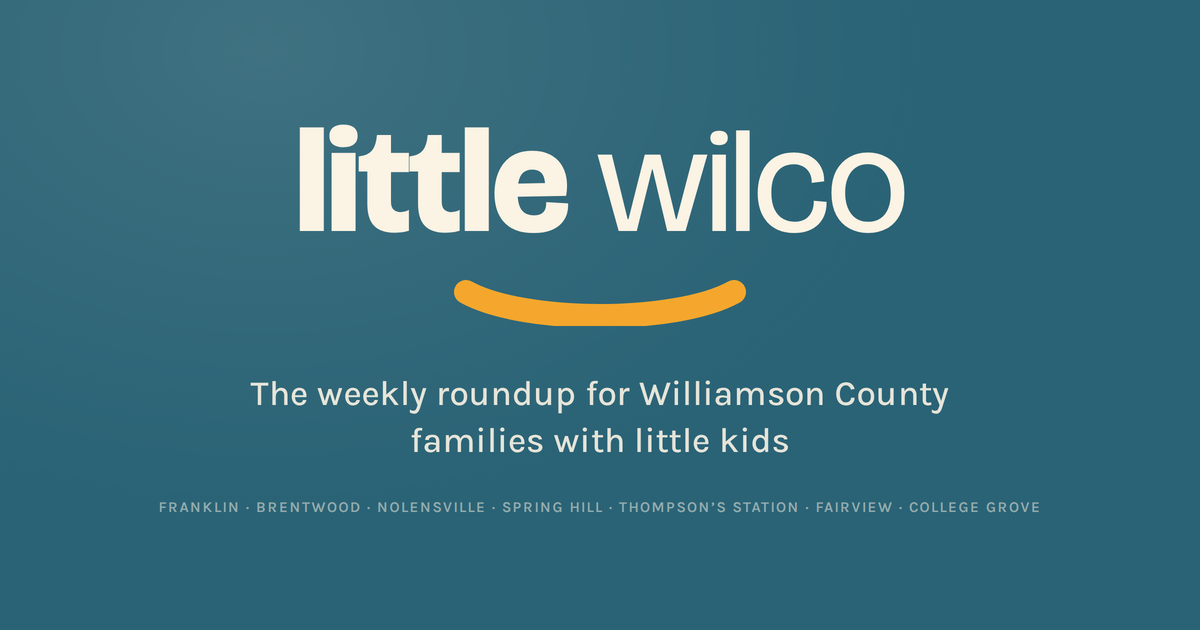
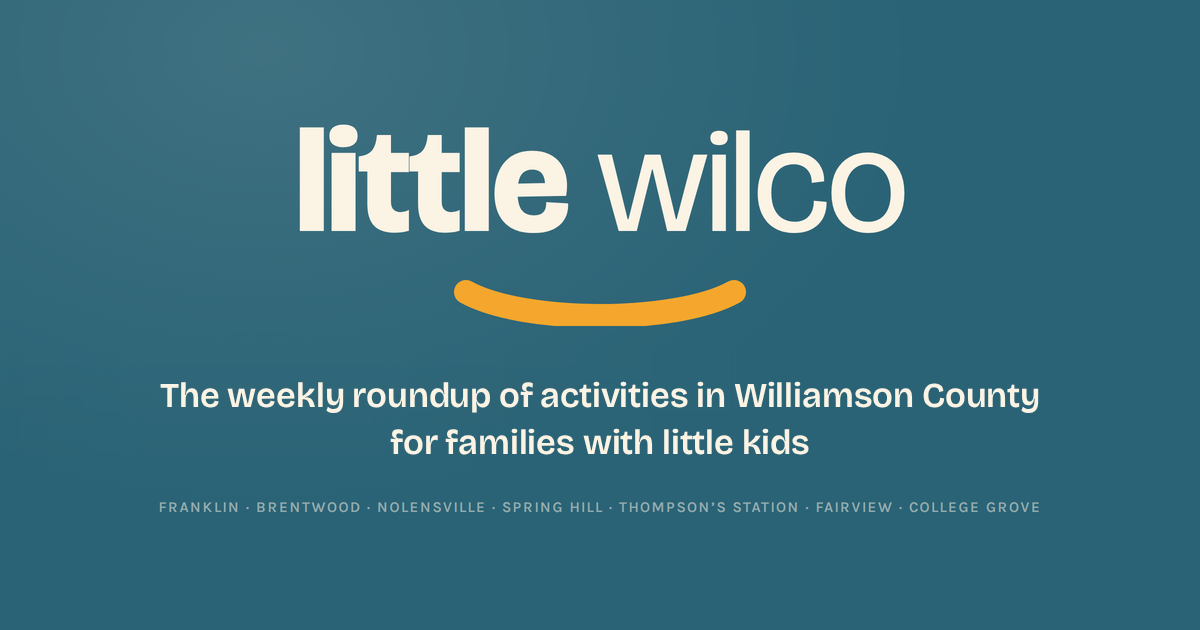
Copy: lead with activities in Williamson County, drop the email frequency claim

Changed region(s): [[0.1233, 0.6032, 0.8633, 0.7238]]

diff --git a/src/app/email/page.tsx b/src/app/email/page.tsx
@@ -5,14 +5,14 @@ import { site } from "@/lib/site";
 export const metadata: Metadata = {
   title: "Get the lineup Thursday",
   description:
-    "One email a week with everything happening for Williamson County families with little kids. Subscribers get the weekend list Thursday, a day before it posts to Instagram.",
+    "Everything happening in Williamson County for families with little kids, in your inbox. Subscribers get the weekend list Thursday, a day before it posts to Instagram.",
   alternates: { canonical: "/email" },
   openGraph: {
     type: "website",
     siteName: site.name,
     title: "Get the lineup Thursday",
     description:
-      "One email a week with everything happening for Williamson County families with little kids.",
+      "Everything happening in Williamson County for families with little kids, in your inbox Thursday mornings.",
     url: `${site.url}/email`,
     images: [
       { url: site.ogImage.url, width: site.ogImage.width, height: site.ogImage.height, alt: site.name },
@@ -22,7 +22,7 @@ export const metadata: Metadata = {
     card: "summary_large_image",
     title: "Get the lineup Thursday",
     description:
-      "One email a week with everything happening for Williamson County families with little kids.",
+      "Everything happening in Williamson County for families with little kids, in your inbox Thursday mornings.",
     images: [site.ogImage.url],
   },
 };
@@ -33,8 +33,8 @@ export default function EmailPage() {
       <div className="wrap wrap--narrow">
         <h1><span className="smile-under">Get the lineup Thursday</span></h1>
         <p className="lede" style={{ marginTop: "var(--space-6)" }}>
-          One email a week. You get the weekend list Thursday morning, a day before the short
-          version posts to Instagram.
+          The weekend list lands Thursday morning, a day before the short version posts to
+          Instagram.
         </p>
 
         <div style={{ marginTop: "var(--space-10)" }}>
@@ -42,22 +42,24 @@ export default function EmailPage() {
         </div>
 
         <div className="card card--outline" style={{ marginTop: "var(--space-12)" }}>
-          <h2 style={{ marginBottom: "var(--space-6)" }}>What is in it</h2>
+          <h2 style={{ marginBottom: "var(--space-6)" }}>What&rsquo;s in it</h2>
           <ul className="plain-list">
             <li>
-              <strong>Everything, not the five that fit on a card.</strong> The Friday post is the
-              highlight reel. The email is the whole weekend.
+              <strong>The whole weekend.</strong> The Friday card fits about five things. The
+              email has everything I found.
             </li>
             <li>
-              <strong>The ones that need a phone call,</strong> with the number, because half the
-              good stuff around here never makes it onto a calendar page.
+              <strong>The address and the real price.</strong> Street address, not the town, and
+              the price tiers broken out, including the add-ons that show up at checkout. If a
+              place never posted its hours, I call.
             </li>
             <li>
-              <strong>What to skip.</strong> Which one is tight for nap time, where parking is
-              miserable after ten, what is worth the drive and what is not.
+              <strong>What to skip.</strong> The one that lands in the middle of nap, and the
+              thing the website still lists that isn&rsquo;t running this week.
             </li>
             <li>
-              <strong>The rainy day backup,</strong> since this is Tennessee in the spring.
+              <strong>An indoor option every week.</strong> Ninety-five degrees or pouring rain,
+              there&rsquo;s still somewhere to go.
             </li>
           </ul>
         </div>

diff --git a/src/app/page.tsx b/src/app/page.tsx
@@ -13,8 +13,7 @@ export default function HomePage() {
         <div className="wrap">
           <h1>So, what are we doing this weekend?</h1>
           <p className="lede">
-            One email a week with what&rsquo;s going on for kids 6 and under across Williamson
-            County.
+            Everything going on for kids 6 and under across Williamson County, in your inbox.
           </p>
           <div style={{ maxWidth: 520, marginTop: "var(--space-8)" }} id="subscribe">
             <SubscribeForm />
@@ -89,7 +88,13 @@ export default function HomePage() {
           <h2><span className="smile-under">Nobody was writing for the under six crowd</span></h2>
           <div style={{ maxWidth: "60ch" }}>
             <p>
-              I&rsquo;m a Franklin mom with a toddler, and I kept hitting the same wall. Plenty of
+              The best activities to do with my toddler have always come from another mom telling
+              me about it. The rest of the time I was scrolling on a Saturday morning and coming up
+              with nothing, or finding something good and then scrambling to pack up and get there
+              before it ended.
+            </p>
+            <p>
+              I&rsquo;m a Franklin mom, and I kept hitting the same wall. Plenty of
               people post about things to do in Williamson County, but almost all of it&rsquo;s
               written for school age kids, and it skips the parts that decide whether an outing
               works with a toddler. Is there a bathroom. Is there shade. Can a stroller get around

diff --git a/src/lib/site.ts b/src/lib/site.ts
@@ -1,8 +1,8 @@
 export const site = {
   name: "Little Wilco",
-  tagline: "The weekly roundup for Williamson County families with little kids",
+  tagline: "The weekly roundup of activities in Williamson County for families with little kids",
   description:
-    "A weekly roundup of things to do for Williamson County families with kids under 6. Franklin, Brentwood, Nolensville, Spring Hill, Thompson's Station, Fairview and College Grove.",
+    "A weekly roundup of activities in Williamson County for families with kids under 6. Franklin, Brentwood, Nolensville, Spring Hill, Thompson's Station, Fairview and College Grove.",
   url: (process.env.NEXT_PUBLIC_SITE_URL || "https://littlewilco.com").replace(/\/$/, ""),
   email: "hello@littlewilco.com",
   instagram: "https://www.instagram.com/littlewilco",

diff --git a/src/app/globals.css b/src/app/globals.css
@@ -194,6 +194,12 @@ img { max-width: 100%; height: auto; display: block; }
   border-color: transparent;
 }
 
+/* The form status colors are tuned for the cream page. On the dark hero the
+   green lands at about 1.2:1, so a subscriber gets no visible confirmation.
+   The tints keep the same meaning and clear AA. */
+.hero .form-msg--ok { color: var(--lw-meadow-tint); }
+.hero .form-msg--err { color: var(--lw-berry-tint); }
+
 /* ---------- Steps ---------- */
 .steps {
   display: grid;

diff --git a/README.md b/README.md
@@ -1,6 +1,6 @@
 # Little Wilco
 
-The weekly roundup for Williamson County families with little kids.
+The weekly roundup of activities in Williamson County for families with little kids.
 
 Next.js (App Router) on Vercel, file-based blog, self-hosted brand fonts.
 Same stack shape as misemade.com.
